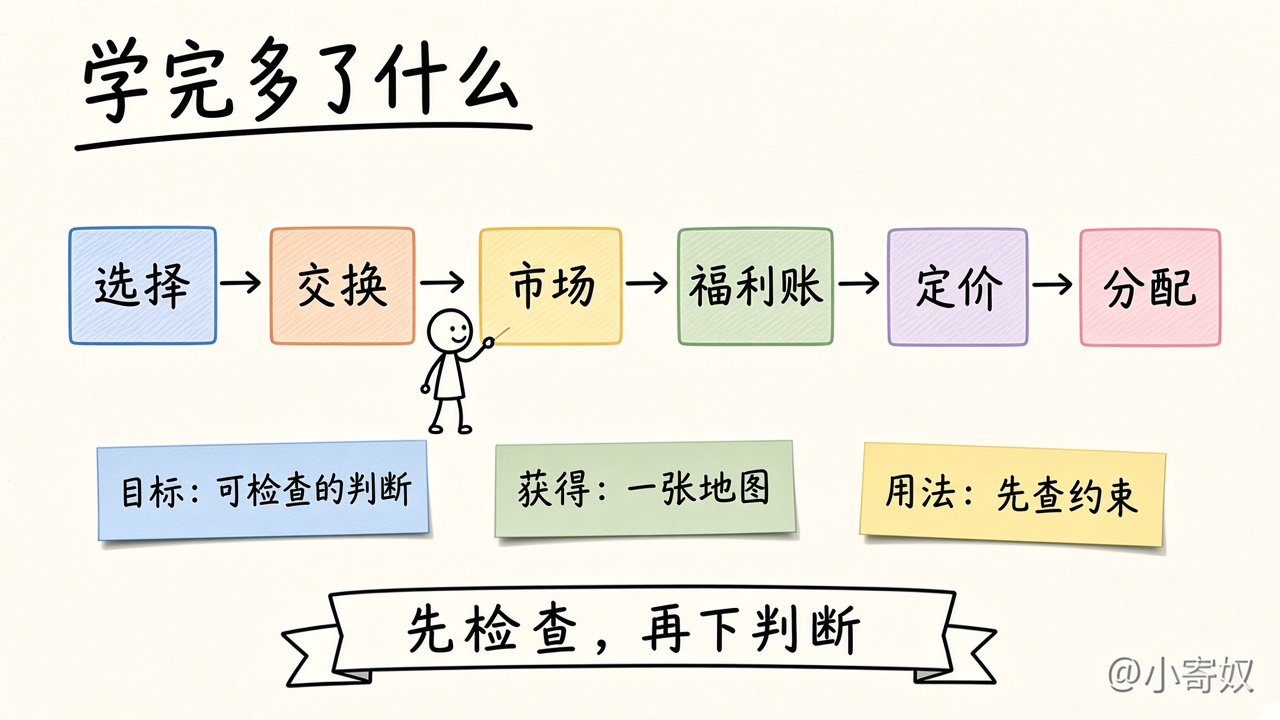
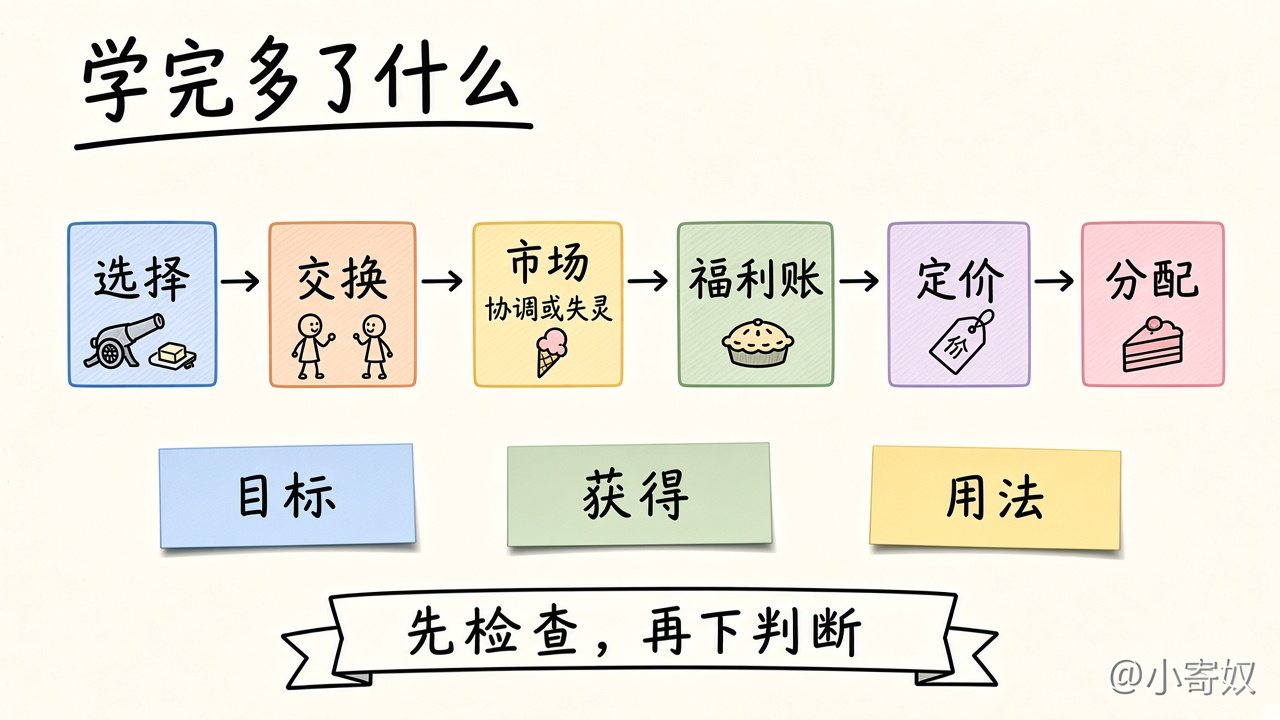
把全书概述压到约8–10分钟，并换成更清楚的手绘链图
正文汉字收到约2650，删掉六步链的第二遍复述和三扇门的重复讲解，阅读时长改成8–10分钟。配图改成六格检查顺序加三张便签，标签用课本例子。

diff --git a/docs/grok_bot_learning/book_overview.md b/docs/grok_bot_learning/book_overview.md
@@ -1,81 +1,69 @@
 # 全书概述：微观经济学原理（书序）
 
-这篇大约读 **12 分钟**。它回答三件事：这本书的学习目标是什么，读完能获得什么，以及这些知识在真实决定里怎样用。
+这篇大约读 **8–10 分钟**。它回答三件事：学习目标是什么，读完能获得什么，这些知识在真实决定里怎样用。
 
-对齐曼昆《经济学原理》第 8 版微观分册第 1–22 章。下面只用短标题对目录，不摘录原书段落。结构图在 [全书思维导图](book_mindmap.md)。读完本页，再打开 [第 1 章](chapters/ch01/README.md)。本路径从头学，别处做过的笔记不作为免修。
+对齐曼昆《经济学原理》第 8 版微观分册第 1–22 章。只用短标题对目录，不摘录原书段落。结构图在 [全书思维导图](book_mindmap.md)。读完本页，再打开 [第 1 章](chapters/ch01/README.md)。本路径从头学，别处做过的笔记不作为免修。
 
 ## 学完这本书，我到底多了什么能力？
 
-一个国家的钢铁和劳动是有限的。多造枪炮，黄油就少。一个学生这一周的饭钱也是有限的。多买一盒冰淇淋，披萨就得少买一块。两边都可以举出理由，理由本身并不告诉你该停在哪里。
+钢铁有限，多造枪炮，黄油就少。这一周的饭钱也有限，多买一盒冰淇淋，披萨就得少买一块。枪炮与黄油、披萨与冰淇淋问的是同一件事：资源不够把想要的一起做完，多要一边，就要指出另一边少掉的那一件。两边都有理由，理由本身不告诉你该停在哪里。
 
-缺的是一条能把理由排开的检查顺序：哪一种资源真正不够，多做一件事具体少掉什么，再多做一点点值不值，规则和价格会把行为推向哪里，以及这件事是市场在传递稀缺，还是有人把成本漏到了交易外面。
+缺的是一条检查顺序：哪一种资源真正不够，多做一件事具体少掉什么，再多做一点点值不值，规则和价格会把行为推向哪里，以及这件事是市场在传递稀缺，还是有人把成本漏到了交易外面。
 
-这本书要留下的能力，就是把这种决定写成可检查的判断。判断可以错，但错在哪一步要能指出来。
+要留下的能力，是把这种决定写成可检查的判断。判断可以错，但错在哪一步要能指出来。
 
 ## 这本书在解决什么问题
 
-资源不够把想要的东西一起做完，这是自己的选择。选择还会碰到别人：你多做一点，好处或坏处不只落在你身上，也落在没和你一起做这个决定的人身上。课本里有三种最常见的情况，名字要和例子绑在一起看。
+资源不够把想要的东西一起做完，这是自己的选择。选择还会碰到别人：你多做一点，好处或坏处不只落在你身上，也落在没和你一起做这个决定的人身上。课本里最常见的是三扇门。
 
-- **外部性。** 工厂多生产，烟囱的烟飘到隔壁。邻居的衣服脏了，人被呛到。工厂算自己的燃料费，不算邻居的这些损失。坏处落到了交易外面的人身上。
-- **市场势力。** 镇上只有一家自来水公司，居民换不了第二家。这家公司可以把水价定得比「很多公司抢着供水」时更高。问题不是水本来就贵，而是买方走不开。
+- **外部性。** 工厂多生产，烟飘到隔壁。邻居的衣服脏了，人被呛到。工厂算自己的燃料费，不算这些损失。坏处落到了交易外面的人身上。
+- **市场势力。** 镇上只有一家自来水公司，居民换不了第二家。水价可以比「很多公司抢着供水」时更高。问题不是水本来就贵，而是买方走不开。
 - **信息不对称。** 卖旧车的人知道这辆车是不是经常抛锚，买的人只看见标价。两边掌握的事实不一样，价格就汇总不到车的真实好坏。
 
-价格有时做的是另一件事。夏天变热，想吃冰淇淋的人变多，价格上涨，店家多生产一些，有的人少买一点。价格把「别人现在更想要它」传了过来。这是市场在协调，不是上面的三扇门。
+价格有时做的是另一件事。天热，想吃冰淇淋的人变多，价格上涨，店家多做一些，有的人少买一点。价格把「别人现在更想要它」传过来。这是市场在协调，不是上面的三扇门。
 
-讨论里更容易用一句口号收场：都重要所以都做，贵就是坑，电影票已经买了就不能走。资源冲突、算错成本、用平均数代替下一单位、规则改写了行为、价格在协调、价格在失灵，改法并不相同。
-
-这本书把这六件事分开，并给每一种配上后文会加厚的步骤。两条主线贯穿全书：市场在一定条件下能把互不相识的人协调到一起；市场也会失灵，规则有机会把结果改好。学生的时间本身就稀缺，所以先把地图画清，细节留到对应的章。这套切法的出处写在第 1 章目录里。
+口号收不了场：都重要所以都做，贵就是坑，电影票已经买了就不能走。电影票已经买了、不能退，它不进入「现在还要不要进场」的比较。资源冲突、算错成本、用平均数代替下一单位、规则改了行为、价格在协调、价格在失灵，改法并不相同。这本书把这六件事分开。两条主线贯穿全书：市场在一定条件下能把互不相识的人协调到一起；市场也会失灵，规则有机会把结果改好。学生的时间本身就稀缺，先画清地图，细节留到对应的章。
 
 ## 目标：把决定写成可检查的判断
 
-学习目标可以收成一条链：
+学习目标收成一条链：
 
-**稀缺下的选择 → 交换 → 市场在协调或在失灵 → 福利账 → 企业怎样定价 → 要素与分配。**
+**选择 → 交换 → 市场协调或失灵 → 福利账 → 定价 → 分配。**
 
-链上的每一环，都对应后面一组章，也对应课堂上会反复见到的一类问题。
+选择问约束、权衡、机会成本和激励，工具在第 1–2 章。交换问分工再互换是否比单干更有进展，计算在第 3 章。市场问涨价是想买的人变多，还是卖家只剩一家；供需、弹性和税收在第 4–6 章。
 
-选择这一环问：不够用的是哪一种资源，多要一边少掉哪一件，成本是不是只计了最佳替代，再多做一单位值不值，规则改了之后行为会滑到哪里。这是第 1–2 章的工具。第 2 章补上模型、假设和其他条件不变，让判断可以被别人复核。
+福利账问房租被规定不能高于某个数、或对汽油征税之后，谁得到好处，谁承担代价，饼是变大了还是只是切开。房东因此少提供出租屋，就是规则把行为推到了别处。这本账在第 7–12 章，第 1 章只留下那三扇门。
 
-交换这一环问：两人把时间花在自己更顺的环节上再互换，是不是比各自单干更有进展。第 1 章只建立方向，第 3 章才计算比较优势。
+定价问再多供一吨水时额外成本和额外收入各是多少，第 13–17 章从成本走到垄断和少数厂商。分配问劳动、资本和土地怎样被定价，第 18–20 章做这件事；效率与公平在第 1 章只认成一对权衡，不裁决哪一头应当赢。
 
-市场这一环问：冰淇淋涨价，是因为天热、想买的人多了，还是因为全城只有一家卖，价格里掺进了单方面的加价。第 4–6 章把供需、弹性和税收画成图。第 1 章只让你分清「稀缺在说话」和「要去认失灵的门」。
-
-福利账这一环问：房租被规定不能高于某个数，或者对汽油征税之后，谁得到好处，谁承担代价，饼是变大了还是只是从一个人手里挪到另一个人手里。第 7–12 章用剩余、税收、贸易政策、外部性和税制把这本账做具体。第 1 章只点出「政府有时可以改善市场结果」，并留下上面那三扇门。
-
-定价这一环问：自来水公司再多供一吨水，额外成本和额外收入各是多少；只有这一家卖家时，价格还是不是「别人取舍」的摘要。第 13–17 章从成本走到竞争、垄断和少数厂商的策略。
-
-分配这一环问：劳动、资本和土地按什么被定价，收入差距里哪些能被证据分开，测量贫困和再分配时又要单独拿出价值判断。第 18–20 章做这件事。效率与公平在第 1 章只作为一对常见权衡被认出来，不在那里裁决哪一头应当赢。
-
-第 21 章把预算和偏好补成正式步骤。第 22 章的信息、集体选择和有限理性放在地图边上，完整证明按边界处理。生产率、通胀、通胀与失业的短期关系只在第 1 章标出位置，这条路径不建宏观模型。
+第 2 章补上模型、假设和其他条件不变，让别人能复核你停在哪一步。比较优势的计算不在第 1 章做完，供需图也不提前画。第 21 章把预算和偏好补成正式步骤。第 22 章的信息、集体选择和有限理性放在地图边上。生产率、通胀、通胀与失业的短期关系只标出位置，这条路径不建宏观模型。
 
 ### 一条链，三次用法
 
 ![从选择到分配的六步，以及目标、获得、用法](book_assets/00_goal_gain_use.jpg)
 
-六个格子是全书的检查顺序。下面三张便签分别对应目标、读完能带走的东西，以及下一次做决定时先做什么。
-
-用枪炮与黄油把链再走一遍，只看每一环在问什么，不在这里下结论。约束是有限的钢铁。权衡是多一把枪就少一些黄油。机会成本是因此放弃的黄油，不是把没买的书、没看的电影全部加总。电影票已经买了、不能退，它不进入「现在还要不要进场」的比较。房租若被规定不能高于某个数，房东往往少提供出租屋。冰淇淋涨价，先看成更多人想买；若全城只有这一家冷饮店，再把它算作市场势力。工厂的烟是外部性，旧车是信息不对称。福利和定价的账留到后面的章。
+六个格子是检查顺序。格子里的小图是课本例子：枪炮与黄油、两人交换、冰淇淋的价格、福利的饼、价签，以及切开以后的份额。三张便签是目标、读完能带走的东西，以及下一次先做什么。
 
 ## 你能获得什么
 
 按章做过练习之后，可以带走四样东西。
 
-第一是一张可复用的解题地图。遇到新问题时，从约束和权衡写起。弹性、剩余、成本曲线、少数卖家的收益矩阵，都是同一条链上后加的工具。
+第一，一张可复用的解题地图。新问题从约束和权衡写起。弹性、剩余、成本曲线和收益矩阵，都是这条链上后加的工具。
 
-第二是能认出市场成功和市场失灵。冰淇淋涨价不一定是市场坏了，它可能正在把有限的奶油留给更想吃的人。工厂把烟的成本留给邻居、全城只有一家供水、卖车的人隐瞒抛锚，才是另三扇门。认错门，后面会拿错工具。
+第二，能分开「价格在传递稀缺」和「价格漏掉了成本、势力或信息」。三扇门的名字和例子在上一节，这里只先归类，再决定后文拿哪一章的工具。认错这一步，后面会拿错工具。
 
-第三是福利账和定价的入口。这一页不算无谓损失或加价，但会先问：规则是把饼做大，还是把饼切开；企业多卖一单位时，边际收入是不是还等于标价。计算在第 7 章和第 13–15 章。
+第三，福利账和定价的入口。这一页不算无谓损失，但会先问规则是把饼做大还是切开，以及多卖一单位时边际收入是不是还等于标价。计算在第 7 章和第 13–15 章。
 
-第四是边界感。宏观路径、某一种分法应当怎样、一篇新闻里的相关能不能当成因果，入门微观不把它们说成定论。知道「这次停在这里」，本身就是学完以后能用的判断。
+第四，边界感。宏观路径、某种分法应当怎样、相关能不能当成因果，入门微观不把它们说成定论。知道这次停在这里，本身就是能用的判断。
 
 ### 学完应能做到，和容易误以为的
 
 | | 学完应能做到 | 容易误以为学完就是 |
 |---|---|---|
-| 目标 | 把一个真实决定拆成可检查的步骤，并指出卡在哪一步 | 能背出十条原理或六个篇名 |
+| 目标 | 把一个决定拆成可检查的步骤，并指出卡在哪一步 | 能背出十条原理或六个篇名 |
 | 市场 | 分开「价格在传递稀缺」和「价格漏掉了成本、势力或信息」 | 把贵、排队、不顺心都叫成市场失灵 |
-| 账 | 知道福利和定价要问谁得谁失、下一单位值不值，并知道到哪一章才算 | 看到税收或涨价就直接宣布有人受损 |
-| 边界 | 宏观、公平裁决、复杂证据题能标成「这次不下定论」 | 用第 1 章的三句话预测通胀或裁定合同应当怎样写 |
+| 账 | 知道要问谁得谁失、下一单位值不值，并知道到哪一章才算 | 看到税收或涨价就宣布有人受损 |
+| 边界 | 宏观、公平裁决和复杂证据题能标成「这次不下定论」 | 用第 1 章预测通胀，或裁定合同应当怎样写 |
 | 时间 | 深学章把机制做成步骤；简讲章停在入口 | 22 章平均用力，或只读标题就跳过 |
 
 ## 应该怎样使用
@@ -84,42 +72,40 @@
 
 先读本页和 [思维导图](book_mindmap.md)，知道自己在 22 章的哪一段。进入某一章时，先读该章概述和导图，再做小课。小课回答一个问题；概述回答这一章为什么要有这些问题。
 
-时间不按章均摊。标成深学的，把机制做成自己能复述的步骤，决策四条、供需、福利、成本和定价都在这里。标成中等的，建立直觉，计算和图形留到写明的章，第 1 章的贸易与市场就是这种。标成简讲或简讲知边界的，点名、看一个最小例子、写下后文在哪一章，然后停住。第 1 章大约 100 分钟，用来把地图画清，不把第 3 章以后的图提前做完。
+时间不按章均摊。深学章把机制做成能复述的步骤。中等章建立直觉，计算和图形留到写明的章。简讲章点名、看一个最小例子、写下后文在哪一章，然后停住。第 1 章大约 100 分钟，用来把地图画清。
 
-每一课先看图，再用对照表核对口径，然后做短练习。目录级进度在 [按书序学](book_order_path.md)。当前正文是第 1 章，后面的章按同一模板补。
+每一课先看图，再用对照表核对口径，然后做短练习。目录进度在 [按书序学](book_order_path.md)。当前正文是第 1 章。
 
 ### 用法：先检查，再下判断
 
-下一次看见枪炮与黄油、房租上限或旧车交易，按这个顺序问，不要先找一句口号贴上去。
+看见枪炮与黄油、房租上限或旧车，按这个顺序问，不要先贴一句口号。
 
 1. **约束。** 哪一种资源不够：钱、时间、土地，还是钢铁。能同时多要两边的，先从冲突里拿掉。
 2. **权衡。** 多得到 A 时，少掉的具体是 B 的哪一部分。效率与公平如果出现，只标成一对，不在这一步裁决。
 3. **机会成本。** 只取最佳替代。显成本和隐成本都算，第三名及以后不相加。无论选哪边都付的账单，不构成差别。
 4. **边际。** 再多一单位的额外收益和额外成本。平均数描述过去。已经退不回的花费留在比较外面。
 5. **激励。** 这条价格或规则让哪个行为变贵，邻近的、没被点名的行为会不会变便宜。
-6. **市场或政策。** 价格是在协调，还是要进失灵的某一扇门。若要改规则，先问饼变大还是只是切开，再决定这本账该拿到后面哪一章去算。
+6. **市场或政策。** 价格是在协调，还是要进失灵的某一扇门。若要改规则，先问饼变大还是只是切开，再决定这本账拿到后面哪一章去算。
 
-这个顺序在第 1 章就能用前四步，后两步先认方向。供需图、剩余和成本函数学完之后，同一步会写得更细，顺序不用推倒重来。
+前四步在第 1 章就能用，后两步先认方向。供需图、剩余和成本函数学完之后，同一步会写得更细，顺序不用推倒重来。
 
-### 用得上的场合，以及不够用的场合
+### 用得上，以及不够用
 
-这条链用得上的，是资源冲突已经说得清的情形：枪炮还是黄油，这周的钱更多买披萨还是冰淇淋，房租上限或香烟税会把供给和需求推向哪里。看见工厂排污、独家供水、旧车市场，先问它动的是哪一环。
+资源冲突已经说得清时，这条链用得上：枪炮还是黄油，这周更多买披萨还是冰淇淋，房租上限或香烟税会把供给和需求推向哪里。看见工厂的烟、独家供水或一辆旧车，先回到上面三扇门归类，不要一律叫成市场坏了。
 
-它不够用的，也要先说清。它不给出「公平应当偏哪一头」的准则，那需要单独的价值判断，第 20 章才有分配的语言，而且仍然不是一张标准答案。它不预测下一季的通胀路径，原理九只说明货币比货物增加得快很多时物价趋于上升。它不把「两个指标一起上升」读成因果，相关和因果是第 2 章的工具。冰淇淋很贵，但街上还有别的店，更像稀缺或口味差别，不要提前叫成垄断。估计很粗、区间重叠时，诚实的结论是先补信息，不是假装链已经算出了唯一方案。
-
-先有一条清晰的检查顺序，后面的章才知道自己在加厚哪一环。增长模型、税制争议和机制设计不放进第一篇。
+它不给出「公平应当偏哪一头」的准则。第 20 章才有分配的语言，而且仍然不是标准答案。它不预测下一季的通胀。它不把「两个指标一起上升」读成因果，相关和因果是第 2 章的工具。冰淇淋很贵，但街上还有别的店，更像稀缺或口味差别，不要提前叫成垄断。估计很粗、区间重叠时，先补信息，不要假装已经算出唯一方案。
 
 ## 1 分钟费曼
 
-合上本页，用自己的话讲三句：这本书要你获得的能力是什么；下一次看见「枪炮还是黄油」、房租上限或一辆旧车，你会按哪几步检查；哪一类问题你明确不在这 22 章的入门范围里下定论。讲完如果缺了「市场在协调」或「市场在失灵」里的任何一条，回到上面的链再看一眼。
+合上本页，用自己的话讲三句：要获得的能力是什么；看见「枪炮还是黄油」、房租上限或一辆旧车，按哪几步检查；哪一类问题不在这 22 章的入门范围里下定论。若缺了「市场在协调」或「市场在失灵」里的任何一条，回到上面的链再看一眼。
 
 ## 下一站
 
-先扫一遍 [全书思维导图](book_mindmap.md)，确认六段的顺序。然后打开 [第 1 章概述与导图](chapters/ch01/README.md)，从决策四条做起。第 1 章的 [勾选清单](chapters/ch01/CHECKLIST.md) 用来记进度，[术语表](chapters/ch01/GLOSSARY.md) 用来回看名词。
+先扫 [全书思维导图](book_mindmap.md)，确认六段的顺序。然后打开 [第 1 章概述与导图](chapters/ch01/README.md)。进度用 [勾选清单](chapters/ch01/CHECKLIST.md)，名词回看 [术语表](chapters/ch01/GLOSSARY.md)。
 
 ## 附录：六段、时间和深度
 
-下面留作查阅，不是本篇要背的篇名。
+查阅用，不必背篇名。
 
 | 段 | 章 | 这段在建立什么 | 粗标签 |
 |---|---|---|---|
@@ -130,10 +116,4 @@
 | 要素与分配 | 18–20 | 劳动与资本的需求、收入差异、不平等与贫困的测量 | 深学为主，证据问题留边界 |
 | 消费者选择与前沿 | 21–22 | 预算与偏好；信息不对称、集体选择、有限理性 | 第 21 章深学为主；第 22 章含简讲边界 |
 
-全书预算大约 30 小时。第 1 章约 100 分钟。其余时间不按章均摊：深学章更厚，简讲边界知道位置就停。
-
-三种深度：
-
-- **深学**：把机制做成能拿来判断的步骤。
-- **中等**：建立直觉和后文入口，计算留到指定章。
-- **简讲 / 简讲知边界**：点名、一个最小例子、写明展开的章节。第 22 章里完整的机制设计、社会选择证明和前景理论估计，也按边界处理。
+全书大约 30 小时。第 1 章约 100 分钟。深学把机制做成步骤；中等建立直觉，计算留到指定章；简讲点名、看一个最小例子、写明展开的章节。

diff --git a/docs/grok_bot_learning/book_order_path.md b/docs/grok_bot_learning/book_order_path.md
@@ -1,6 +1,6 @@
 # 按曼昆章节顺序学
 
-本文件是 `grok-bot` 的书序导航。先读 [全书概述](book_overview.md)（约 10–15 分钟）和 [全书思维导图](book_mindmap.md)，再进入已写好的章。
+本文件是 `grok-bot` 的书序导航。先读 [全书概述](book_overview.md)（约 8–10 分钟）和 [全书思维导图](book_mindmap.md)，再进入已写好的章。
 
 第 1 章正文在 [chapters/ch01](chapters/ch01/README.md)，状态为**文档齐备**（材料完整：概述、导图、七课、配图、对照表、[勾选清单](chapters/ch01/CHECKLIST.md)、[术语表](chapters/ch01/GLOSSARY.md)、原书目录覆盖表）。忽略以前在知乎或 `course_20h` 里的完成记录，按新材料把第 1 章重学一遍。旧清单 [ch01_learning_plan.md](ch01_learning_plan.md) 只作历史对照。
 

diff --git a/docs/grok_bot_learning/README.md b/docs/grok_bot_learning/README.md
@@ -8,7 +8,7 @@
 
 按这个顺序打开：
 
-1. [全书概述](book_overview.md)（约 10–15 分钟的阅读，讲清目标、获得和用法）与 [全书思维导图](book_mindmap.md)
+1. [全书概述](book_overview.md)（约 8–10 分钟的阅读，讲清目标、获得和用法）与 [全书思维导图](book_mindmap.md)
 2. [第 1 章概述与思维导图](chapters/ch01/README.md)（先读章首，约 5–8 分钟）。配套 [勾选清单](chapters/ch01/CHECKLIST.md) 与 [术语表](chapters/ch01/GLOSSARY.md)
 3. 第 1 章小课 [01](chapters/ch01/01_tradeoffs.md) 到 [07](chapters/ch01/07_macro_boundary_review.md)
 

diff --git a/docs/grok_bot_learning/book_mindmap.md b/docs/grok_bot_learning/book_mindmap.md
@@ -1,6 +1,6 @@
 # 全书思维导图
 
-配合 [全书概述](book_overview.md) 使用。概述是一篇大约 10–15 分钟的阅读，回答学这本书的目标、能获得什么、怎样使用。本页只保留结构图。读完概述再看图，然后进入 [第 1 章](chapters/ch01/README.md)。
+配合 [全书概述](book_overview.md) 使用。概述是一篇大约 8–10 分钟的阅读，回答学这本书的目标、能获得什么、怎样使用。本页只保留结构图。读完概述再看图，然后进入 [第 1 章](chapters/ch01/README.md)。
 
 ## 六段结构
 
